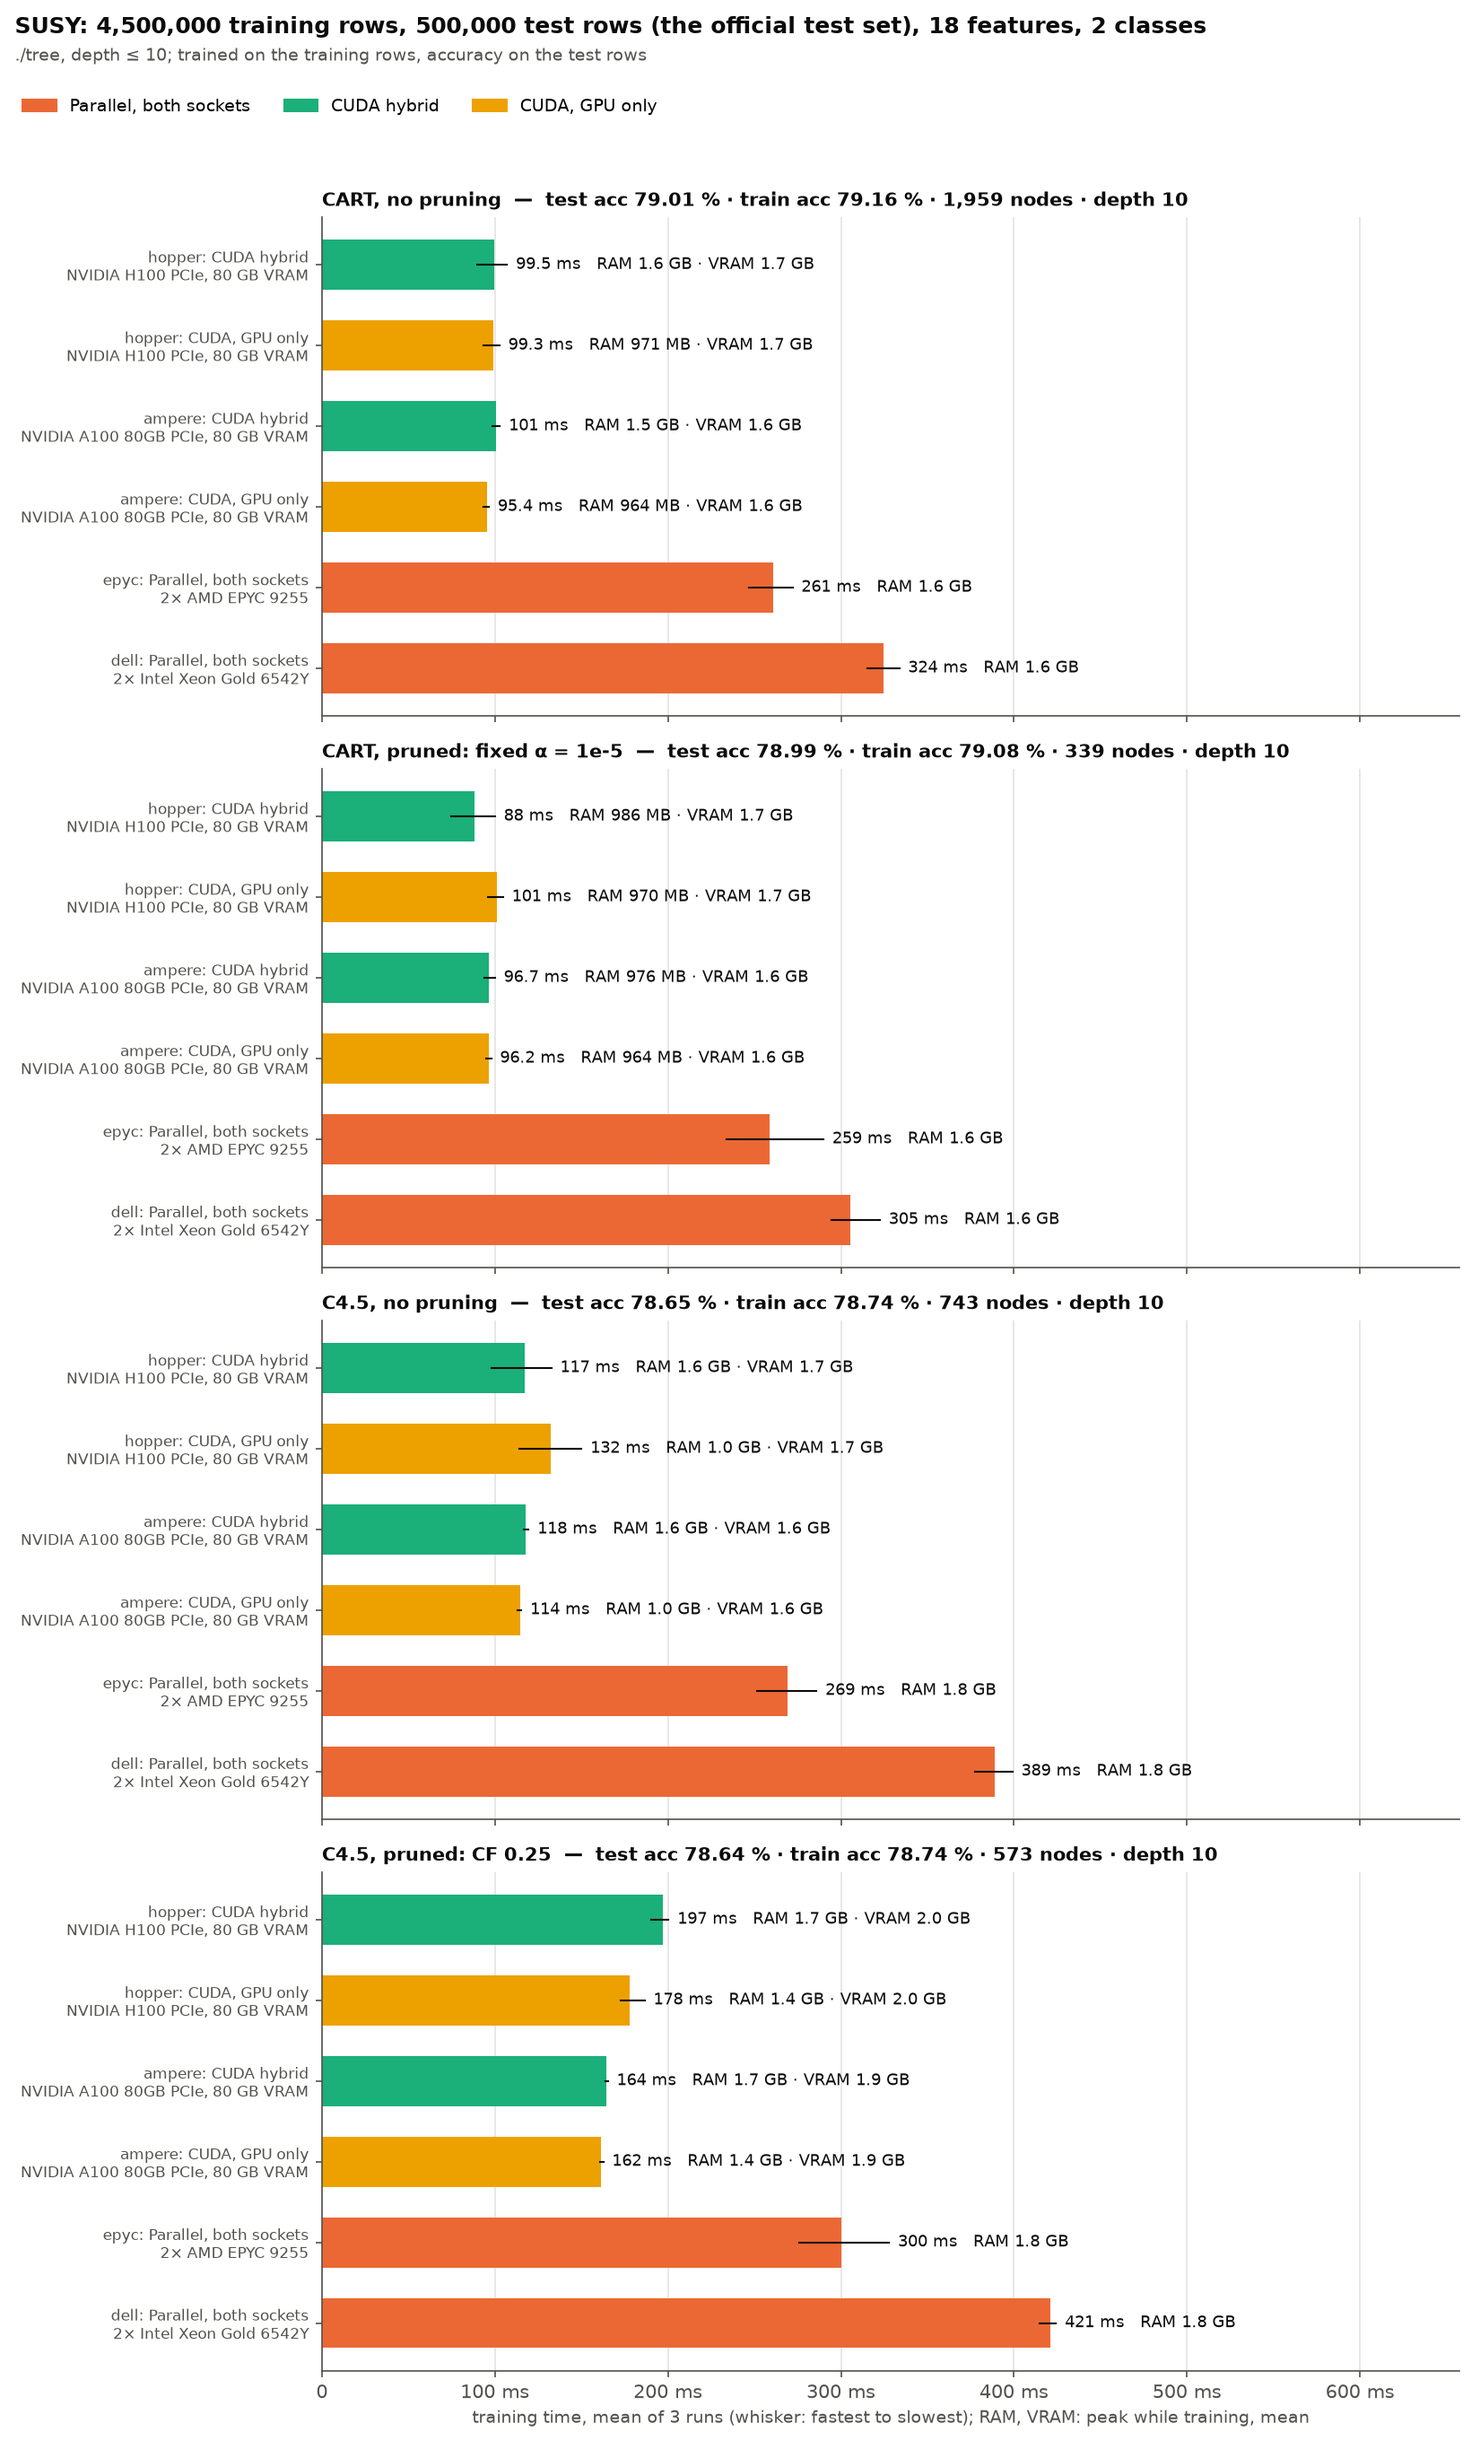
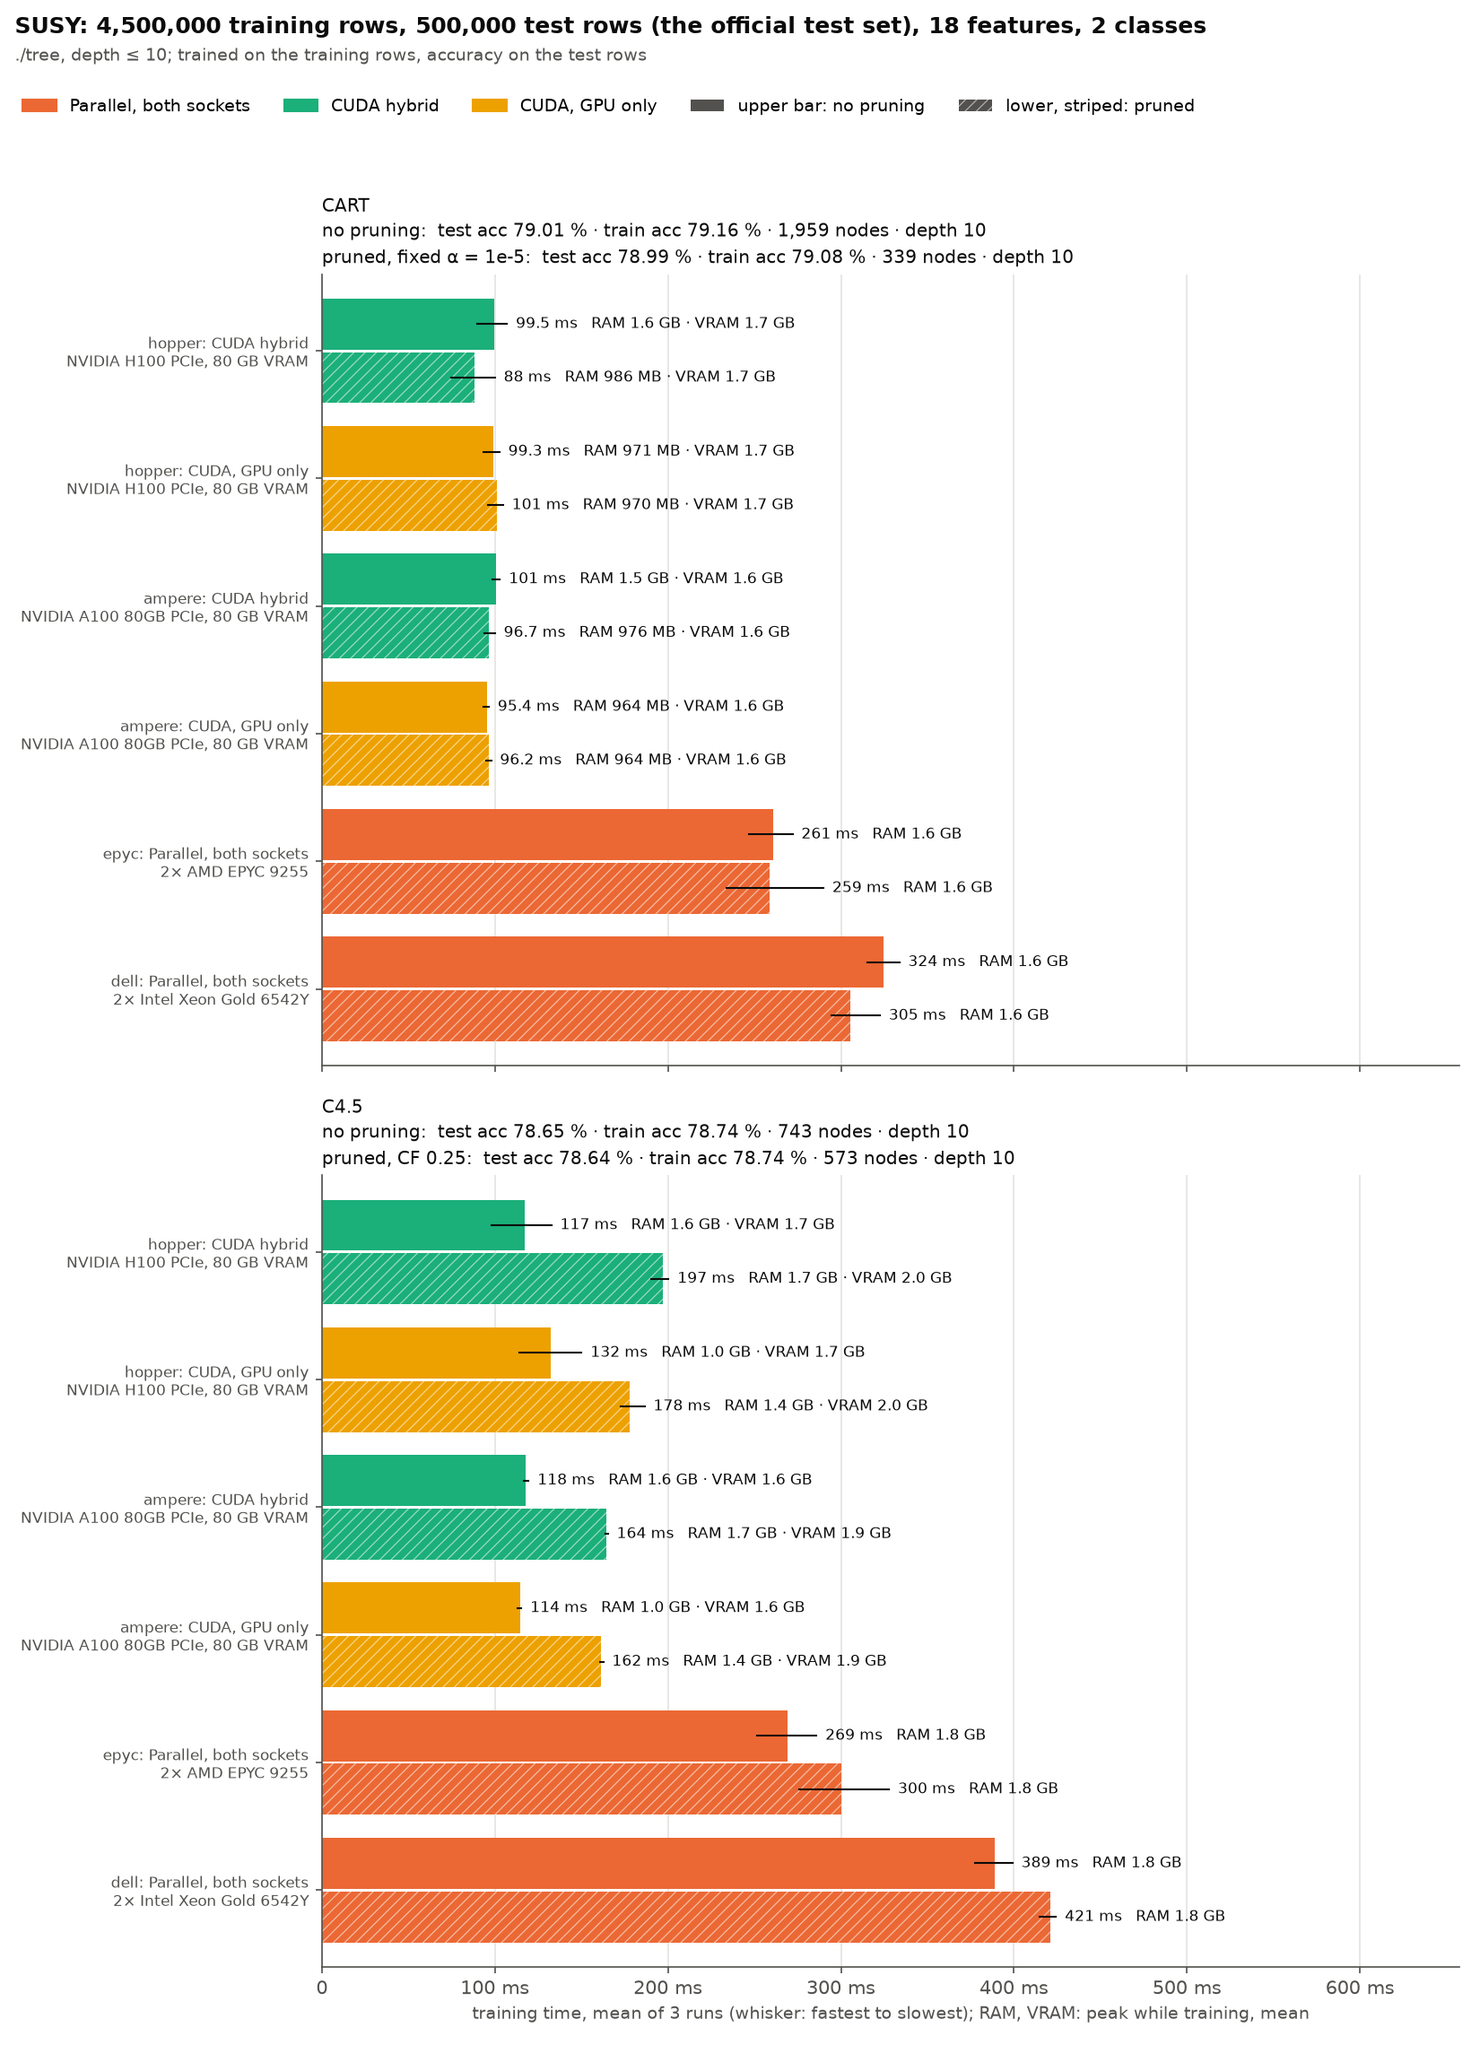
Test-set charts: pruned and unpruned bars side by side
One panel per algorithm (CART, C4.5) instead of one per protocol. Each run
gets two adjacent bars: no pruning on top, pruned right below it, drawn in
the same backend colour with subtle light stripes. The panel title holds
both trees. Charts of cluster-airline, -higgs, -susy and -ecbdl regenerated.

diff --git a/bench/testset_chart.py b/bench/testset_chart.py
@@ -1,11 +1,12 @@
 #!/usr/bin/env python3
 """The test-set benchmark's chart (cluster-airline, -higgs, -susy, -ecbdl): one
 dataset, ./tree on every node, trained on the training set and scored on the
-test set. One panel per protocol (CART and C4.5, unpruned and pruned at fixed
-values, depth <= 10), one bar per run (node and backend): the mean training
-time of its runs, a whisker from the fastest to the slowest. Next to each bar:
+test set. One panel per algorithm (CART, C4.5; depth <= 10), two bars per run
+(node and backend): no pruning on top, pruned at fixed values right below it
+(striped). A bar is the mean training time of its runs, a whisker from the
+fastest to the slowest. Next to each bar:
 the time, and peak RAM (and VRAM on a GPU) as numbers, the means of the runs.
-The panel title holds the tree: test and training accuracy, nodes, depth (when
+The panel title holds the trees: test and training accuracy, nodes, depth (when
 the runs grew different trees, each bar says its own).
 
   bench/.venv/bin/python bench/testset_chart.py bench/results/cluster-higgs
@@ -30,8 +31,13 @@ import benchlib as B  # noqa: E402
 from chart import GRID, INK, MUTED, NAMES, seconds_tick  # noqa: E402
 from machines_chart import COLORS  # noqa: E402  (the validated backend colours)
 
-PROTOCOLS = {"cart_depth10": "CART, no pruning", "cart_depth10_alpha": "CART, pruned: fixed α = 1e-5",
-             "c45_depth10_unpruned": "C4.5, no pruning", "c45_depth10": "C4.5, pruned: CF 0.25"}
+# One panel per algorithm: the unpruned and the pruned bar of a run next to each other.
+PANELS = {"CART": [("cart_depth10", "no pruning"), ("cart_depth10_alpha", "pruned, fixed α = 1e-5")],
+          "C4.5": [("c45_depth10_unpruned", "no pruning"), ("c45_depth10", "pruned, CF 0.25")]}
+PROTOCOLS = [protocol for variants in PANELS.values() for protocol, _ in variants]
+# Pruned bars: the backend colour with thin light stripes.
+PRUNED = {"hatch": "////", "edgecolor": (1, 1, 1, 0.55), "linewidth": 0}
+matplotlib.rcParams["hatch.linewidth"] = 0.6
 # Run directories are <backend>-<machine>-<dataset>.
 BACKENDS = {"cuda": ("cuda", "CUDA hybrid"), "gpuonly": ("gpu_only", "CUDA, GPU only"),
             "cpu": ("parallel", "Parallel, both sockets")}
@@ -84,45 +90,55 @@ def tree_text(rows):
     return " · ".join(parts)
 
 
+def bar_note(rows, same, text):
+    times = [r["train_seconds"] for r in rows]
+    memory = f"RAM {gib(statistics.mean(r['peak_rss_train_bytes'] for r in rows))}"
+    gpu = [r["gpu_peak_bytes"] for r in rows if r.get("gpu_peak_bytes") is not None]
+    if gpu:
+        memory += f" · VRAM {gib(statistics.mean(gpu))}"
+    return f"{duration(statistics.mean(times))}   {memory}" + ("" if same else f"   {text}")
+
+
 def chart(dataset, runs, out):
     names = sorted(runs, key=lambda n: (ORDER.index("-".join(n.split("-")[:2]))
                                         if "-".join(n.split("-")[:2]) in ORDER else 99, n))
     meta = next(iter(runs.values()))["meta"]
     reps = max(len(rows) for run in runs.values() for rows in run["cases"].values())
-    fig, axes = plt.subplots(len(PROTOCOLS), 1, figsize=(11, 1.4 + len(PROTOCOLS) * (0.55 * len(names) + 0.9)),
+    fig, axes = plt.subplots(len(PANELS), 1, figsize=(11, 1.4 + len(PANELS) * (0.95 * len(names) + 1.2)),
                              sharex=True)
     largest = max(r["train_seconds"] for run in runs.values() for rows in run["cases"].values()
                   for r in rows)
-    for ax, (protocol, title) in zip(axes, PROTOCOLS.items()):
-        ok = {n: [r for r in runs[n]["cases"].get(protocol, []) if r["status"] == "ok"] for n in names}
-        texts = {n: tree_text(rows) for n, rows in ok.items() if rows}
-        same = len(set(texts.values())) == 1
-        ax.set_title(f"{title}" + (f"  —  {next(iter(texts.values()))}" if same and texts else ""),
-                     loc="left", fontsize=10, color=INK, fontweight="bold")
-        for i, name in enumerate(names):
-            backend, text = label(name, runs[name]["machine"])
-            rows = ok[name]
-            y = len(names) - 1 - i
-            if not rows:
-                failed = runs[name]["cases"].get(protocol, [])
-                ax.text(0, y, "  " + (failed[0]["status"] if failed else "not run"),
-                        va="center", fontsize=8.5, color=MUTED)
-                continue
-            times = [r["train_seconds"] for r in rows]
-            mean = statistics.mean(times)
-            ax.barh(y, mean, height=0.62, color=COLORS[BACKENDS[backend][0]])
-            if len(times) > 1:
-                ax.plot([min(times), max(times)], [y, y], color=INK, lw=1)
-            memory = f"RAM {gib(statistics.mean(r['peak_rss_train_bytes'] for r in rows))}"
-            gpu = [r["gpu_peak_bytes"] for r in rows if r.get("gpu_peak_bytes") is not None]
-            if gpu:
-                memory += f" · VRAM {gib(statistics.mean(gpu))}"
-            note = f"{duration(mean)}   {memory}" + ("" if same else f"   {texts[name]}")
-            ax.text(max(max(times), mean) + largest * 0.012, y, note, va="center", fontsize=8.5,
-                    color=INK)
+    wide = False
+    for ax, (algorithm, variants) in zip(axes, PANELS.items()):
+        lines = [algorithm]
+        for v, (protocol, title) in enumerate(variants):
+            ok = {n: [r for r in runs[n]["cases"].get(protocol, []) if r["status"] == "ok"] for n in names}
+            texts = {n: tree_text(rows) for n, rows in ok.items() if rows}
+            same = len(set(texts.values())) == 1
+            wide |= not same
+            lines.append(f"{title}" + (f":  {next(iter(texts.values()))}" if same and texts else ""))
+            for i, name in enumerate(names):
+                backend, _ = label(name, runs[name]["machine"])
+                rows = ok[name]
+                # Unpruned on top, pruned right below it.
+                y = len(names) - 1 - i + (0.21 if v == 0 else -0.21)
+                if not rows:
+                    failed = runs[name]["cases"].get(protocol, [])
+                    ax.text(0, y, "  " + (failed[0]["status"] if failed else "not run"),
+                            va="center", fontsize=8, color=MUTED)
+                    continue
+                times = [r["train_seconds"] for r in rows]
+                ax.barh(y, statistics.mean(times), height=0.4, color=COLORS[BACKENDS[backend][0]],
+                        **(PRUNED if v else {}))
+                if len(times) > 1:
+                    ax.plot([min(times), max(times)], [y, y], color=INK, lw=1)
+                ax.text(max(times) + largest * 0.012, y, bar_note(rows, same, texts[name]),
+                        va="center", fontsize=8, color=INK)
+        ax.set_title("\n".join(lines), loc="left", fontsize=9.5, color=INK, linespacing=1.5)
+        ax.title.set_fontweight("bold")
         ax.set_yticks(range(len(names)))
         ax.set_yticklabels([label(n, runs[n]["machine"])[1] for n in reversed(names)], fontsize=8)
-        ax.set_xlim(0, largest * (1.55 if same else 2.4))
+        ax.set_ylim(-0.6, len(names) - 0.4)
         ax.grid(axis="x", color=GRID, lw=0.8)
         ax.set_axisbelow(True)
         for side in ("top", "right"):
@@ -130,6 +146,7 @@ def chart(dataset, runs, out):
         ax.spines["left"].set_color(MUTED)
         ax.spines["bottom"].set_color(MUTED)
         ax.tick_params(colors=MUTED)
+    axes[-1].set_xlim(0, largest * (2.4 if wide else 1.55))
     axes[-1].xaxis.set_major_formatter(lambda v, _: seconds_tick(v) if v else "0")
     axes[-1].set_xlabel(f"training time, mean of {reps} runs (whisker: fastest to slowest); "
                         "RAM, VRAM: peak while training, mean", color=MUTED, fontsize=9)
@@ -148,9 +165,11 @@ def chart(dataset, runs, out):
              "./tree, depth ≤ 10; trained on the training rows, accuracy on the test rows",
              fontsize=9, color=MUTED)
     used = sorted({BACKENDS[n.split("-")[0]][0] for n in names}, key=list(COLORS).index)
-    fig.legend(handles=[Patch(color=COLORS[b], label=dict(BACKENDS.values())[b]) for b in used],
-               loc="upper left", bbox_to_anchor=(0.005, 1 - 0.62 / height), ncol=len(used),
-               frameon=False, fontsize=9)
+    handles = [Patch(color=COLORS[b], label=dict(BACKENDS.values())[b]) for b in used]
+    handles += [Patch(facecolor=MUTED, label="upper bar: no pruning"),
+                Patch(facecolor=MUTED, label="lower, striped: pruned", **PRUNED)]
+    fig.legend(handles=handles, loc="upper left", bbox_to_anchor=(0.005, 1 - 0.62 / height),
+               ncol=len(handles), frameon=False, fontsize=9)
     fig.tight_layout(rect=(0, 0, 1, 1 - 0.95 / height))
     fig.savefig(out, dpi=150)
     plt.close(fig)
